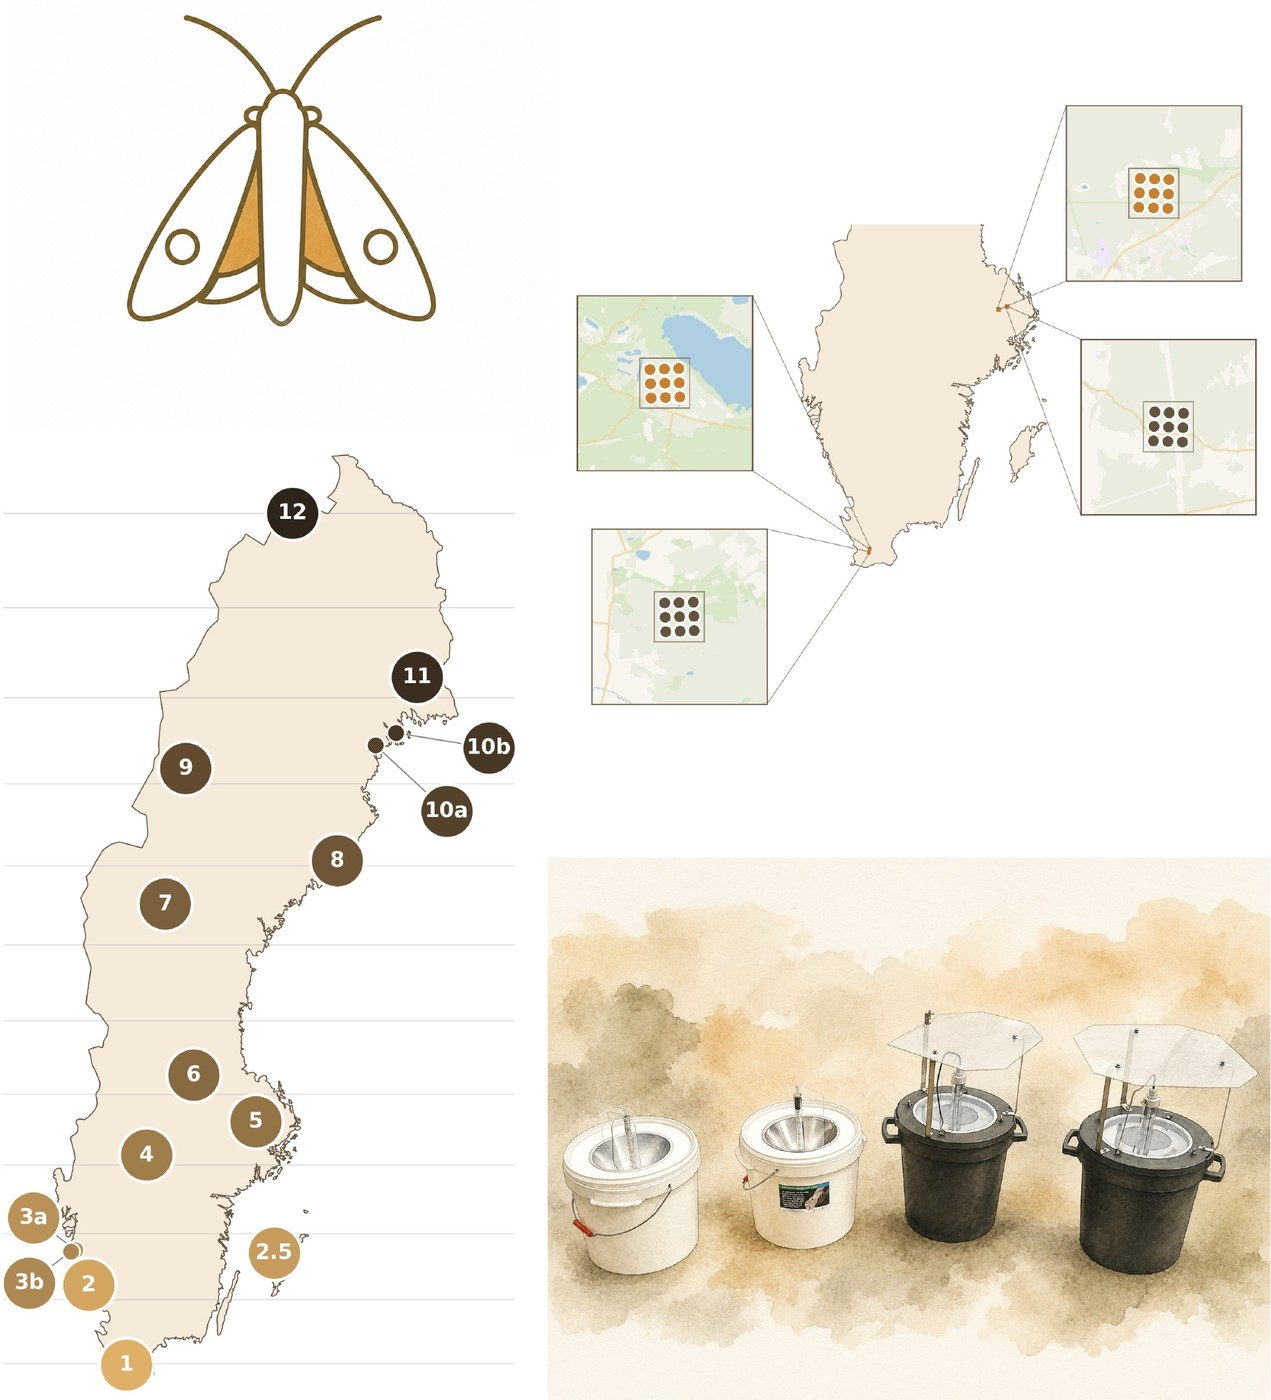
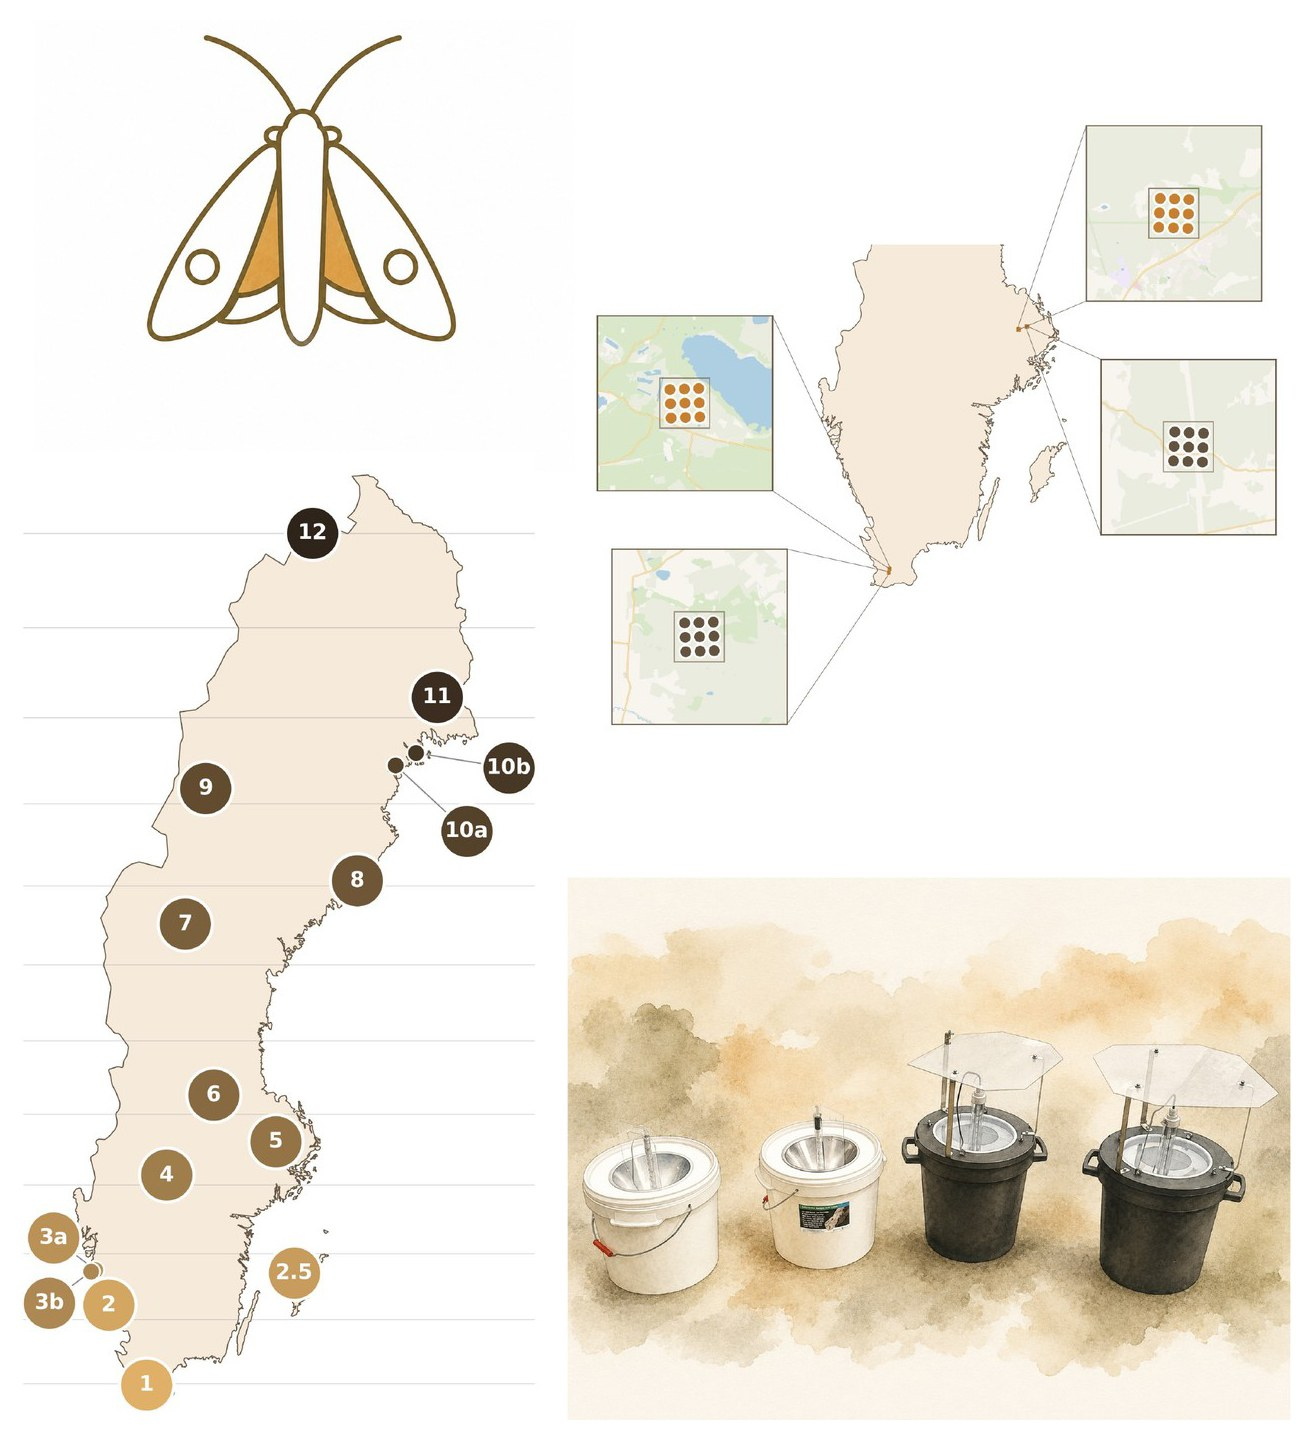
Update front cover image with more padding plus fill in all remaining manual sections

diff --git a/docs/hur-du-rapporterar/registrera-falla.md b/docs/hur-du-rapporterar/registrera-falla.md
@@ -1,0 +1,68 @@
+---
+title: Registrera fälla
+---
+
+# Registrera fälla
+
+Innan du kan börja rapportera nattfjärilar behöver du dels installera appen ButterflyCount, dels registrera din fälla och lokal på webben. Det görs bara en gång per fälla.
+
+## 1. Installera appen ButterflyCount
+
+Ladda ner appen där du brukar hämta hem appar:
+
+- [GooglePlay](https://play.google.com/store/apps/details?id=uk.ac.ceh.ebms&hl=sv&gl=US)
+- [AppStore](https://apps.apple.com/ie/app/ebms/id1461711373)
+
+Öppna appen och välj **Språk** och **Land**.
+
+Skapa en användare: gå till **Meny**, fyll i namn och lösenord, läs och acceptera användarvillkoren.
+
+## 2. Ställ in nattfjärilsräkning som standard
+
+Gå till:
+
+**Meny → App → Primary Survey → Moth Survey (SPRING)**
+
+## 3. Ladda ner artlistor
+
+Under samma inställningar, ladda ner artlistorna **Sweden** och **EBMS moths**.
+
+## 4. Registrera din fälla på webben
+
+Innan du kan börja räkna nattfjärilar måste fällan registreras på [butterfly-monitoring.net/ebms-app](https://butterfly-monitoring.net/ebms-app).
+
+1. Logga in med samma inloggningsuppgifter som i appen.
+2. Gå till **Mina data → Mina nattfjärilsfällor → Lägg till en lokal**.
+3. Fyll i **Land**, **Namn på lokal** och **Plats** (tryck på kartan).
+4. Välj typ av fälla: **LED Funnel trap**.
+5. Under **Types of lamp in trap**, se namngivning nedan.
+6. Tryck **Skicka**.
+
+### Namngivning
+
+Om du har flera fällor på samma lokal måste varje fälla registreras separat, till exempel **Ängen 1**, **Ängen 2**, **Ängen 3**.
+
+För gradientprojektets fyra fälltyper, ange fälltyp så här vid registrering (se [Fälltyper](../falltyper/oversikt.md) för fullständiga specifikationer):
+
+| Fälltyp | Anges som |
+|---|---|
+| LED-Emmer (standard) | `LED > Ledstrip > 395-405 SMD 2835` |
+| LED-Emmer 2.0 Quad | `LED > Other > "395-405 Quad"` |
+| EntoLight Twincolor | `LED > Other > "Entolight Twincolor"` |
+| EntoLight Multicolor | `LED > Other > "Entolight Multicolor"` |
+
+*[TBD: registreringskategori för Veldshop-standardmodellen som används i rutnätsdelen.]*
+
+### Registrering direkt i appen
+
+Det går numera även att registrera en fälla direkt i appen, inte bara via hemsidan.
+
+*[TBD: kort steg-för-steg för app-registrering.]*
+
+### Viktigt: undvik "training mode"
+
+Registrera dig **inte** i training mode, varken i appen eller på hemsidan. Observationerna kommer in i systemet, men du kommer inte kunna ändra dem i efterhand.
+
+## Nästa steg
+
+När fällan är registrerad, se [Så använder du appen](app-instrux.md) för hur du rapporterar en vittjning.

diff --git a/CHANGELOG.md b/CHANGELOG.md
@@ -11,30 +11,39 @@ Format: `vMAJOR.MINOR.PATCH — YYYY-MM-DD`
 
 ## Unreleased
 
-### Manual content
-- Manual skeleton drafted: index + Bakgrund, Fälltyper, Sätta ut fällor (deployment), Under experimentet, Hur du rapporterar, Efter inrapportering, Kontakt och stöd
-- **Drafted with Jekyll front matter, ready to push**: index.md (home page), falltyper/oversikt.md (all four trap models, full specs, plus grid-only Veldshop variant note), hur-du-satter-ut/site-specifikationer.md (deployment rules, lottery), hur-du-satter-ut/gradient-lund-abisko.md, hur-du-satter-ut/rutnat-lund-uppsala.md, **bakgrund/oversikt.md** (EU mandate rationale, both sub-projects' purpose, tools rationale, AP-sync status, deliverables timeline — sourced from the Naturvårdsverket contract document, adapted for participants)
-- **index.md "Varför gör vi detta?" filled in** (was TBD), same source
-- **Site styling added**: moth icon logo (assets/images/moth-icon.png) added to assets; custom Cayman theme override (assets/css/style.scss) retinting the site header/links/buttons with the project's own palette (cream #F6EADA, brown #63533F, accent orange #C88030) instead of the default theme colours
-- **Front cover composite added to the site itself** (assets/images/framsida.jpg): the finished cover_illustration_manual_v2.jpg now displays inside the header banner on the home page only (via a custom _layouts/default.html override), not stacked as a separate duplicate section
-- **Header colour fixed**: solid brown (#63533F) instead of the earlier brown-to-orange gradient, per feedback
-- **Fixed duplicate title**: home page banner and body content were showing two different H1 titles stacked ("Pilotprojekt nattfjärilar 2026" then "Pilotförsök för övervakning..."); index.md's front matter title now set to the full correct title, duplicate heading removed from the body
-- **Reverted header layout override**: the front-cover image is back in the main content (below the header), not inside the banner — the banner-embedding was based on a misread of feedback
-- **Header colour corrected**: solid accent orange/caramel (#C88030), the colour Lars actually confirmed as correct back when the gradient was first flagged, not the darker #63533F. Header text switched to dark brown (#3A2E22) for contrast against the lighter background.
-- **Header text reverted to light/cream** per feedback (white/cream read better than dark brown even against the lighter orange background); cover image spacing doubled (1.5rem → 3rem above/below); author byline added inside the header banner ("Lars B. Pettersson, Biologiska institutionen, Lunds universitet") via a minimal, tightly-scoped layout override (image placement untouched this time)
-- **Hosting decided: GitHub Pages, serving from `/docs` on `main`** — repo also holds DECISIONS.md/CHANGELOG.md for project bookkeeping — **confirmed live**
-- Trap model specs finalized for all four models (LED-Emmer standard, LED-Emmer 2.0 Quad, EntoLight Twincolor, EntoLight Multicolor), including registration naming convention and powerbank troubleshooting
-- Deployment rules finalized: 4 sites ≥50m apart per gradient location, trap type assigned by lottery and fixed for the season
-- Gradient site list finalized: 15 sites, Revinge to Abisko (incl. 2.5, 3a/3b, 10a/10b sub-numbering)
-- Reporting/taxonomy scope decided: macromoths mandatory, micro/other groups optional, Dyntaxa taxonomy mismatch noted as a known issue
-- Bakgrund section still needs final why/importance/urgency text (source: Naturvårdsverket document, not yet drafted)
+### Manual content — full skeleton drafted, ready for review
+All sections now have at least a first-pass draft:
 
-### Cover illustration (finished)
-- Gradient map (gradient_karta_cover_v3.jpg) — 15 sites on real Sweden boundary data, colour-graded south-to-north by rank, ideal-latitude reference bands, sticker colour palette — **confirmed final**
-- Grid-insets map (grid_insets_cover_v7.jpg) — 4-panel surround layout (Skåne 45/96, Uppland A/B), each with a real cropped OpenFreeMap Bright basemap, 1km reference squares, colour-matched to the gradient map — **confirmed final**
+- **index.md** — home page, front cover image, "Varför gör vi detta?" brief
+- **bakgrund/oversikt.md** — EU mandate rationale, both sub-projects' purpose, tools rationale, AP-sync status, deliverables timeline (sourced from the Naturvårdsverket contract document, adapted for participants — see DECISIONS.md for the contract-vs-actual-scope note)
+- **falltyper/oversikt.md** — all four trap models with full specs, registration naming, powerbank troubleshooting, plus the grid-only Veldshop variant note
+- **hur-du-satter-ut/** — site-specifikationer (deployment rules, lottery), gradient-lund-abisko, rutnat-lund-uppsala
+- **under-experimentet/vecko-rutin.md** — weekly deploy/empty/record cycle, weather guidance
+- **hur-du-rapporterar/** — registrera-falla, app-instrux (stub, needs screenshots), vad-som-raknas, andra-observationer
+- **efter-inrapportering/** — validering, forvantade-resultat (placeholder pending real pilot data)
+- **kontakt-och-stod/** — whatsapp-och-kontakt, nyheter (changelog + "När det krånglar" running list)
+
+### Known open TBDs (search each file for `[TBD:` to find them)
+- Consent-text exact wording and collection mechanism (index.md)
+- Registration category for the Veldshop grid-only trap variant (falltyper, registrera-falla)
+- App-based (not just website) trap registration steps (registrera-falla)
+- Concrete per-site start dates from trap-performance modelling (vecko-rutin)
+- app-instrux.md needs actual numbered screenshots/short videos
+- WhatsApp group join link (whatsapp-och-kontakt)
+- Version number and changelog dates (nyheter)
+
+### Site / hosting
+- **Hosting**: GitHub Pages, serving from `/docs` on `main` — repo also holds DECISIONS.md/CHANGELOG.md for project bookkeeping — confirmed live
+- **Styling**: custom Cayman theme override (assets/css/style.scss) — header background solid accent orange/caramel #C88030, header text light/cream, links/buttons in the project's brown/orange palette
+- **Home page**: finished front-cover composite (assets/images/framsida.jpg) displayed in main content below the header; author byline ("Lars B. Pettersson, Biologiska institutionen, Lunds universitet") added inside the header banner via a minimal layout override (docs/_layouts/default.html)
+- Known minor cosmetic issue, not being chased further: byline font doesn't scale with Cayman's desktop breakpoint (looks fine on phone, small relative to the title on wide desktop screens)
+
+### Cover illustration — finished
+- Gradient map (gradient_karta_cover_v3.jpg) — 15 sites on real Sweden boundary data, colour-graded south-to-north by rank, ideal-latitude reference bands, sticker colour palette — confirmed final
+- Grid-insets map (grid_insets_cover_v7.jpg) — 4-panel surround layout (Skåne 45/96, Uppland A/B), each with a real cropped OpenFreeMap Bright basemap, 1km reference squares — confirmed final
 - Interactive Leaflet HTML gradient map (gradient_karta_interaktiv.html) — for the online manual, separate from the print cover
-- Trap-models watercolor illustration and flat-line moth icon — both received finished from Lars
-- Front cover composite — assembled and exported by Lars from his own layout tool (cover_illustration_manual_v2.jpg) — **confirmed final**
+- Trap-models watercolor illustration and flat-line moth icon — received finished from Lars
+- Front cover composite — assembled and exported by Lars from his own layout tool (cover_illustration_manual_v2.jpg) — confirmed final
 - Point shapefile of all 36 grid points (moth_grid_points shapefile, WGS84) exported for GIS use
 
 ## v0.1.0 — YYYY-MM-DD

diff --git a/docs/under-experimentet/vecko-rutin.md b/docs/under-experimentet/vecko-rutin.md
@@ -1,0 +1,37 @@
+---
+title: Veckorutin
+---
+
+# Veckorutin: sätta ut, tömma, rapportera
+
+## Provtagningsschema
+
+- En gång i veckan per lokal, så långt det går
+- Startdatum baseras på fällornas prestandamodellering
+
+*[TBD: konkret startdatum per lokal/gradientsteg.]*
+
+## Lämpliga väderförhållanden
+
+*(Återanvänt/anpassat från tidigare fältinstruktion)*
+
+- Fällorna kan sättas ut vid de flesta väderförhållanden
+- Temperatur bör vara minst +5°C, gärna över +10°C
+- Undvik utsättning om regn väntas; skydda powerbanken om lite regn ändå kommer
+- Är det blåsigt, lägg något tungt (t.ex. en sten) i fällan
+- Molniga nätter med svagt månsken är att föredra framför klara nätter med fullmåne
+
+## När, på dygnet?
+
+Vissa fälltyper har automatiska ljussensorer och kan sättas ut innan det blir mörkt (se [Fälltyper](../falltyper/oversikt.md) för vilka). Vittja nästa morgon, innan det blir för varmt och soligt, annars finns risk att fjärilarna flyger iväg när fällan öppnas.
+
+## Att tömma och rapportera
+
+Se [Registrera fälla](../hur-du-rapporterar/registrera-falla.md) och [Ändra observationer](../hur-du-rapporterar/andra-observationer.md) för det praktiska i appen.
+
+## Tips & tricks
+
+*(Byggs på efter hand som saker dyker upp, bullet-lista till att börja med)*
+
+- Registrera dig inte i training mode, se [Registrera fälla](../hur-du-rapporterar/registrera-falla.md)
+- *[fler punkter läggs till efter hand, se även "När det krånglar" under Kontakt och stöd]*

diff --git a/docs/hur-du-rapporterar/andra-observationer.md b/docs/hur-du-rapporterar/andra-observationer.md
@@ -1,0 +1,32 @@
+---
+title: Ändra observationer
+---
+
+# Ändra en observation i efterhand
+
+Observationer som du lagt in via appen ButterflyCount kan ändras både i appen och på hemsidan (butterfly-monitoring.net), oavsett var de ursprungligen registrerades. Samma inloggning används på båda ställena.
+
+## I appen
+
+Gå till inventeringen, öppna den art du vill justera under **Ändra förekomst**. Där kan du ändra:
+
+- **Antal innanför** / **Antal utanför** fällan
+- **Bildigenkännare** (vem som gjort bestämningen)
+- **Kommentar**
+- Lägga till fler bilder på samma art
+
+## På hemsidan
+
+Logga in på [butterfly-monitoring.net](https://butterfly-monitoring.net/) med samma uppgifter som i appen. Där kan du hitta din inventering (via kartan eller listan) och justera antal på samma sätt som i appen.
+
+## Bra att veta
+
+- Att kunna ändra i efterhand är just varför det är viktigt att **inte** registrera sig i training mode, se [Registrera fälla](registrera-falla.md).
+- Fotograferar du samma djur två gånger räknas det som två exemplar, justera antalet manuellt om så behövs.
+- Du kan ladda upp flera bilder i klump för en fälla, appens klassificerare artbestämmer dem efter hand.
+- Appen kan (ännu) inte beskära bilder. Behöver du beskära, ta bilden med mobilkameran, beskär den, och ladda sedan upp den i appen.
+- Är artbestämningen osäker, testa gärna [ObsIdentify](https://waarneming.nl/) som brukar vara pålitlig för en snabb kontroll.
+
+## Export till Artportalen
+
+Målet är att data ska kunna synkas automatiskt till Artportalen, men det kräver dels ditt samtycke, dels godkännande från Artdatabanken, vilket ännu inte är klart. Redan nu kan du dock alltid exportera din data och manuellt importera den till Artportalen om du vill ha den där också.

diff --git a/docs/kontakt-och-stod/whatsapp-och-kontakt.md b/docs/kontakt-och-stod/whatsapp-och-kontakt.md
@@ -1,0 +1,24 @@
+---
+title: Kontakt och stöd
+---
+
+# Kontakt och stöd
+
+Har du frågor kring metod, placering av lokaler eller liknande, hör av dig.
+
+- **E-post**: [email redacted]
+- **Ansvarig kontaktperson**: Lars Pettersson
+
+## WhatsApp-grupp
+
+En WhatsApp-grupp finns för snabbt utbyte av erfarenheter och support. Deltagande är frivilligt.
+
+*[TBD: länk/instruktion för att gå med.]*
+
+## Önskemål
+
+Har du förslag på förbättringar eller nya funktioner, hör av dig via ovanstående kanaler.
+
+## Om något inte fungerar tekniskt
+
+Mejla oss, så hjälper vi till eller skapar en issue hos utvecklarna om det behövs.

diff --git a/docs/hur-du-rapporterar/vad-som-raknas.md b/docs/hur-du-rapporterar/vad-som-raknas.md
@@ -1,0 +1,22 @@
+---
+title: Vad som ska rapporteras
+---
+
+# Vad som ska rapporteras
+
+## Fokus
+
+- **Storfjärilar (makrofjärilar)**: nattflyn, mätare m.fl., det här är kärnan i vad som ska räknas
+- **Mikrofjärilar och vecklare**: valfritt, går bra att försöka men är svårare för appens klassificerare
+- **Övriga grupper** (nattsländor, dagsländor, skalbaggar m.m.): kan fotograferas men klassas just nu som "Okänd". Planer finns på att kunna gruppera dessa i efterhand så att datan blir användbar.
+
+## Praktiska tips vid registrering
+
+- Fotograferar du samma djur två gånger räknas det som två exemplar, justera antalet manuellt om så behövs
+- Ser du många exemplar av samma art, ta en bild och öka antalet manuellt istället för att fotografera varje individ
+- Appen kan (ännu) inte beskära bilder, beskär i mobilens kamera-app före uppladdning om det behövs
+- Osäker artbestämning? Prova [ObsIdentify](https://waarneming.nl/) som brukar vara pålitlig
+
+## Känt problem: vetenskapliga namn
+
+Svensk taxonomi (Dyntaxa, bakom Artportalen) har i vissa fall andra vetenskapliga namn än resten av Europa, vilket gör att klassificeraren kan få problem att matcha rätt art (t.ex. lerfärgad rotfjäril). En lista på berörda arter tas fram, men kan dröja några veckor. Bilderna finns kvar i databasen och går att justera i valideringssteget.

diff --git a/docs/kontakt-och-stod/nyheter.md b/docs/kontakt-och-stod/nyheter.md
@@ -1,0 +1,20 @@
+---
+title: Nyheter och senaste lärdomarna
+---
+
+# Nyheter och senaste lärdomarna
+
+Den här sidan samlar dels ändringar i manualen, dels praktiska lärdomar som dykt upp under säsongen.
+
+**Aktuell version**: *[TBD: versionsnummer och datum.]*
+
+## När det krånglar
+
+*(Byggs på efter hand, korta punkter snarare än långa förklaringar)*
+
+- Registrera dig inte i training mode, se [Registrera fälla](../hur-du-rapporterar/registrera-falla.md)
+- *[fler punkter läggs till efter hand]*
+
+## Ändringslogg
+
+- *[TBD: datumsatt lista över vad som ändrats i manualen]*

diff --git a/docs/hur-du-rapporterar/app-instrux.md b/docs/hur-du-rapporterar/app-instrux.md
@@ -1,0 +1,19 @@
+---
+title: Så använder du appen
+---
+
+# Så använder du appen: steg för steg
+
+*[Denna sida byggs ut med numrerade steg + skärmbilder, i samma stil som den äldre fältinstruktionens bilaga 1-3. Korta videor läggs in för de moment som är svårare att fånga i stillbild, t.ex. återhämtning om appen tappar tråden och hamnar tillbaka på Inventeringsdetaljer.]*
+
+## Planerat innehåll
+
+1. Öppna Nattfjärilsinventering, välj lokal
+2. Fylla i datum, rapportör, ev. kommentar och väder
+3. Lägga till art (textsökning eller foto)
+4. Ladda upp flera bilder i klump
+5. Justera antal innanför/utanför fällan
+6. Klart och ladda upp
+7. Vad göra om man hamnar fel (återhämtningsflödet)
+
+Se även [Vad som ska rapporteras](vad-som-raknas.md) och [Ändra observationer](andra-observationer.md).

diff --git a/docs/efter-inrapportering/forvantade-resultat.md b/docs/efter-inrapportering/forvantade-resultat.md
@@ -1,0 +1,17 @@
+---
+title: Vad blir det av din data?
+---
+
+# Vad blir det av din data?
+
+*[Denna sida är tänkt att vara visuell snarare än textbaserad, med illustrationer/grafer istället för långa förklaringar. Innehåll fylls i när pilotdata finns, men strukturen läggs fast redan nu.]*
+
+## Landskapseffekter
+
+Illustration av fångstheterogenitet inom rutnätet, dvs. hur mycket fångsten varierar mellan platser trots att samma fälltyp används överallt.
+
+## Latitudgradient
+
+Illustration av fångstframgång i relation till ljusregim (t.ex. längs breddgrad/säsong). **Viktigt**: presenteras utan uppdelning per fälltyp, för att inte skapa en snedvriden bild till förmån för eller nackdel för någon specifik fälla.
+
+*[Platshållarbild/mockup tills riktig pilotdata finns.]*

diff --git a/docs/efter-inrapportering/validering.md b/docs/efter-inrapportering/validering.md
@@ -1,0 +1,17 @@
+---
+title: Validering
+---
+
+# Validering
+
+När du rapporterat dina observationer går de vidare till validering. Du är varmt välkommen att hjälpa till med validering själv, både av dina egna och andras observationer.
+
+*[TBD: kort steg-för-steg för hur man validerar via hemsidan. Notera: den delen av hemsidan är fortfarande under utveckling, t.ex. går det ännu inte att filtrera på projekt, men det går att arbeta med redan nu.]*
+
+## Ändra dina egna observationer i efterhand
+
+Se [Ändra observationer](../hur-du-rapporterar/andra-observationer.md).
+
+## Längre fram
+
+Vi undersöker möjligheten att visualisera data från Indicia-databasen för att ge dig som deltagare mer aktiv återkoppling på vad just din fälla bidragit med. Det är inget som finns på plats än, men en möjlig utveckling.